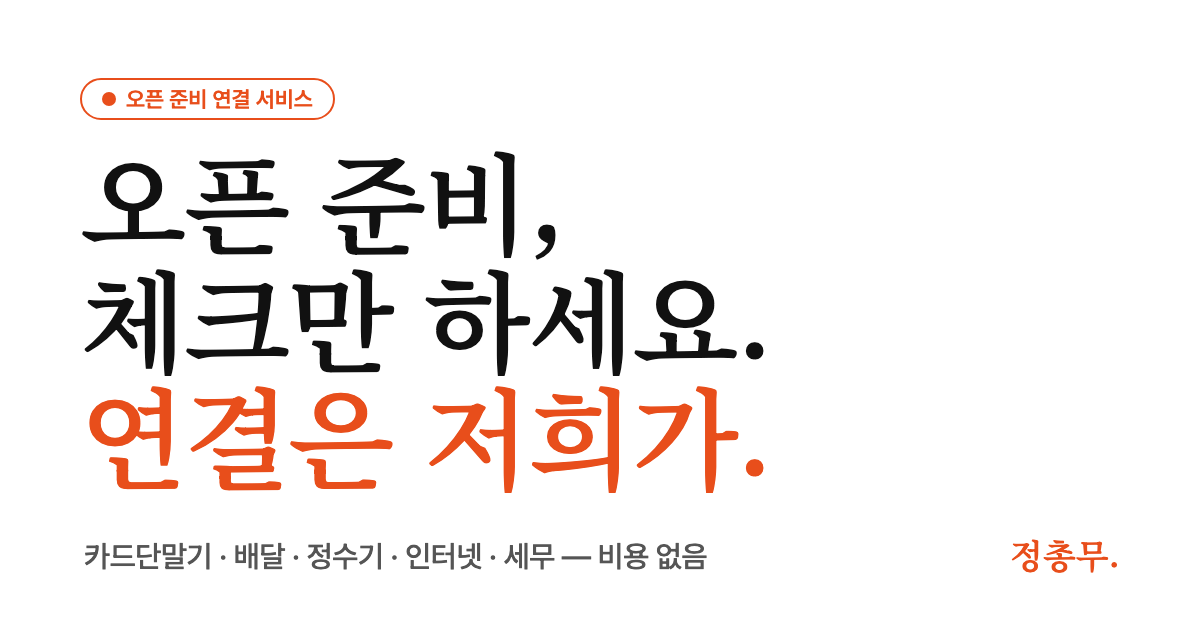
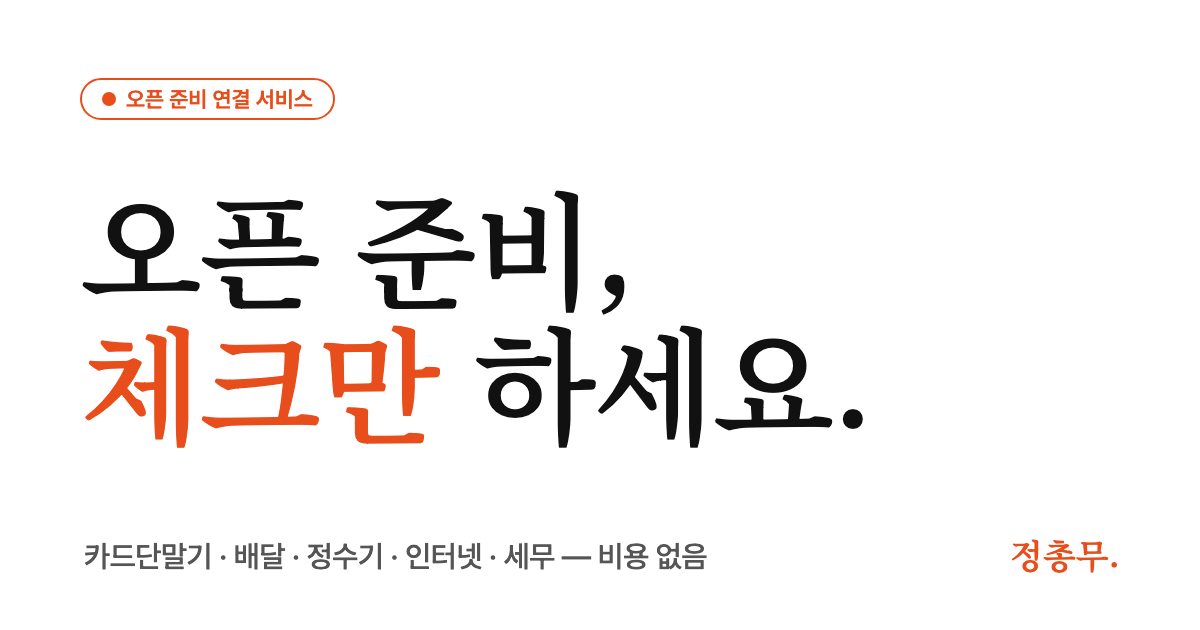
chore: 미리보기 문구에서 '연결은 정총무가' 제거

Changed region(s): [[0.0617, 0.2413, 0.74, 0.7841]]

diff --git a/open/index.html b/open/index.html
@@ -5,7 +5,7 @@
 <meta name="viewport" content="width=device-width, initial-scale=1, viewport-fit=cover">
 <title>오픈 준비 연결 신청 · 정총무</title>
 <meta name="description" content="인테리어 마무리 후 오픈 준비, 필요한 것만 체크해 주세요. 카드단말기·배달앱·정수기·인터넷·세무까지 정총무가 대신 알아보고 연결해 드립니다. 무료, 강요 없음.">
-<meta property="og:title" content="오픈 준비, 체크만 하세요. 연결은 정총무가.">
+<meta property="og:title" content="오픈 준비, 체크만 하세요.">
 <meta property="og:description" content="카드단말기·배달·정수기·인터넷·세무, 필요한 것만 체크해 주시면 정총무가 알아보고 연결해 드립니다. 비용 없음.">
 <meta property="og:image" content="https://card.jungchongmoo.com/open/og.png">
 <meta property="og:image:width" content="1200"><meta property="og:image:height" content="630">
